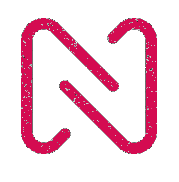
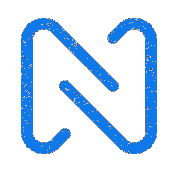
Contact Added

Changed region(s): [[0.1117, 0.0824, 0.6704, 0.8516], [0.3352, 0.0824, 0.8939, 0.8516]]

diff --git a/src/components/TopPage.jsx b/src/components/TopPage.jsx
@@ -1,38 +1,52 @@
-import { useEffect } from 'react';
+import { useEffect, useState } from 'react';
 import AOS from 'aos';
 import 'aos/dist/aos.css'
-import { RiLinkedinBoxFill, RiGithubFill  } from 'react-icons/ri';
+import ResumeEn from '../assets/cv-navarro-en.pdf';
+import ResumeEs from '../assets/cv-navarro-es.pdf';
+import { RiLinkedinBoxFill, RiGithubFill } from 'react-icons/ri';
 import { useTranslation } from 'react-i18next';
 
 function TopPage() {
-	
+
 	const [t] = useTranslation('global');
 
 	useEffect(() => {
-    AOS.init({duration:2000});
-  },[]);
+		AOS.init({ duration: 2000 });
+	}, []);
 
-	return (
-		<div className='top h-[80vh] grid justify-item-center place-content-center' data-aos='fade-up'>
-			<h2 className='text-6xl font-bold text-gray-800 dark:text-gray-300 my-2'> {t('top-page.hello-one')} </h2>
-			<h1 className='text-8xl font-bold text-[#F01F52] my-2'> Joaquin Navarro</h1>
-			<h2 className='text-6xl font-bold text-gray-800 dark:text-gray-300 my-2'> {t('top-page.hello-two')} </h2>
-			{/* Social Media */}
-			<div className='flex flex-row my-3 '>
-				<a href='https://www.linkedin.com/in/jose-joaquin-navarro/' className='text-5xl pr-1 text-gray-800 dark:text-gray-300'>
-					<RiLinkedinBoxFill />
-				</a>
-				<a href='#' className='text-5xl pl-1 text-gray-800 dark:text-gray-300'>
-					<RiGithubFill />
-				</a>
-			</div>
-			{/* Resume */}
-			<div className='flex flex-row justify-center my-3'>
-				<a href='./public/CV-Joaquin-Navarro.pdf' target="_blank" className='border-2 rounded-3xl py-2 px-4 mx-3'> {t('top-page.res-view')} </a>
-				<a href='./public/CV-Joaquin-Navarro.pdf' download="" className='border-2 rounded-3xl py-2 px-4 mx-3'> {t('top-page.res-download')} </a>
-			</div>
+
+	
+return (
+	<div className='top h-[80vh] grid justify-item-center place-content-center' data-aos='fade-up'>
+		<h2 className='text-6xl font-bold text-gray-800 dark:text-gray-300 my-2'> {t('top-page.hello-one')} </h2>
+		<h1 className='text-8xl font-bold text-[#1079ea] my-2'> Joaquin Navarro</h1>
+		<h2 className='text-6xl font-bold text-gray-800 dark:text-gray-300 my-2'> {t('top-page.hello-two')} </h2>
+		{/* Social Media */}
+		<div className='flex flex-row my-3 '>
+			<a href='https://www.linkedin.com/in/jose-joaquin-navarro/' className='text-5xl pr-1 text-gray-800 dark:text-gray-300'>
+				<RiLinkedinBoxFill />
+			</a>
+			<a href='#' className='text-5xl pl-1 text-gray-800 dark:text-gray-300'>
+				<RiGithubFill />
+			</a>
 		</div>
-	)
+		{/* Resume */}
+		<div className='flex flex-row justify-center my-3'>
+			<a
+				href={ResumeEn}
+				target='_blank'
+				className='border-2 font-semibold text-gray-800 border-gray-800 hover:text-[#1079ea] hover:border-[#1079ea] rounded-3xl py-2 px-4 mx-3 dark:text-gray-100 dark:border-gray-100'
+			> {t('top-page.res-view')}
+			</a>
+			<a
+				href={ResumeEn}
+				download=''
+				className='border-2 font-semibold text-gray-800 border-gray-800 hover:text-[#1079ea] hover:border-[#1079ea] rounded-3xl py-2 px-4 mx-3 dark:text-gray-100 dark:border-gray-100'
+			> {t('top-page.res-download')}
+			</a>
+		</div>
+	</div>
+)
 
 }
 

diff --git a/src/components/About.jsx b/src/components/About.jsx
@@ -1,6 +1,3 @@
-import { useEffect } from 'react';
-import AOS from 'aos';
-import 'aos/dist/aos.css'
 import { useTranslation } from 'react-i18next';
 import photo from '../assets/img/picture.png';
 
@@ -9,22 +6,18 @@ function About () {
 
   const [t] = useTranslation('global');
 
-  useEffect(() => {
-    AOS.init({duration:2000});
-  },[]);
-  
   return(
     <section id='about' className='h-[100vh] flex flex-col items-center'>
-      <h1 className='mt-40 mb-10 text-4xl text-center'>{t('about.title')}</h1>
-      <div className='flex flex-row  items-center place-content-center w-9/12' data-aos='fade-right'>
+      <h1 className='mt-40 mb-10 text-4xl text-center'>{t('about.title-one')}</h1>
+      <div className='flex flex-row items-center place-content-center w-9/12' data-aos='fade-right'>
         <div className='col-span-3 w-3/12'>
           <img className='rounded-2xl mx-auto' src={photo} width={250} height={250} />
         </div>
-        <div className='m-10 text-2xl w-6/12'>
-          <p>Hi! I’m Joaquin Navarro, a Front End Developer and Programming Teacher based in Buenos Aires, Argentina. After working as an Programming Teacher for almost 6 years, I’ve decided to take the leap to pursue a career in Front End Developer, I love to learn new technologies and flex my creativity to create amazing things.</p>
+        <div className='m-10 text-2xl w-6/12 text-justify'>
+          <p>{t('about.content')}</p>
         </div>
       </div>
-      <h3 className='text-3xl my-10 text-center'>Tech I Use</h3>
+      <h3 className='text-3xl my-10 text-center'>{t('about.title-two')}</h3>
       <div className='text-xl flex flex-row items-center place-content-center' data-aos='fade-up'>  
         <p className='border-2 rounded-3xl py-2 px-4 mx-2'>CSS</p>
         <p className='border-2 rounded-3xl py-2 px-4 mx-2'>JavaScript</p>

diff --git a/src/components/Portfolio.jsx b/src/components/Portfolio.jsx
@@ -1,22 +1,15 @@
-import { useEffect } from 'react';
-import AOS from 'aos';
-import 'aos/dist/aos.css'
 import { BsBoxArrowUpRight, BsGithub } from "react-icons/bs";
 import PageOne from '../assets/img/kodegames.png';
 import PageTwo from '../assets/img/tequepops.png';
 
 function Portfolio() {
 
-  useEffect(() => {
-    AOS.init({duration:2000});
-  },[]);
-
   return (
-    <section id='portfolio' className=''>
+    <section id='portfolio' className='my-20 py-2'>
       <h1 className='mt-40 mb-10 text-4xl text-center'> Portfolio </h1>
-      <div className='flex flex-col  items-center place-content-center'>
+      <div className='flex flex-col items-center place-content-center'>
 
-        <div className='flex rounded-xl p-10 shadow-xl w-8/12 my-5 dark:bg-[#13181f]' data-aos='fade-right'>
+        <div className='flex bg-white rounded-xl p-10 shadow-xl w-8/12 my-5 dark:bg-[#081825]' data-aos='fade-right'>
           <div className='portfolio-img w-7/12 h-[300px] overflow-hidden rounded-2xl'>
             <img src={PageOne} className='card-img' />
           </div>
@@ -41,7 +34,7 @@ function Portfolio() {
           </div>
         </div>
 
-        <div className='flex rounded-xl p-10 shadow-xl w-8/12 my-5 dark:bg-[#13181f]' data-aos='fade-left'>
+        <div className='flex bg-white rounded-xl p-10 shadow-xl w-8/12 my-5 dark:bg-[#081825]' data-aos='fade-left'>
           <div className='portfolio-info w-5/12 mx-10 grid items-center'>
             <h3 className='text-center text-2xl font-semibold'>Dashboard Restaurant</h3><br />
             <p className='text-lg text-center'>This is a mobile first app with mainly a dashboard, analitycs, orders information and tools that help to users to grow your business.</p><br />

diff --git a/src/components/Contact.jsx b/src/components/Contact.jsx
@@ -1,0 +1,43 @@
+import { FaRegPaperPlane } from "react-icons/fa";
+import { useTranslation } from 'react-i18next';
+
+function Contact () {
+
+  const [t] = useTranslation('global');
+  
+  return(
+    <section id='contact' className='h-[80vh] mt-40'>
+      <h1 className='mb-10 text-4xl text-center'>{t('contact.title')}</h1>
+      {/*Form */}
+        <form action='#' method='post' className='flex flex-col items-center justify-center' data-aos='fade-left' >
+          <input
+            className='bg-gray-100 border-b-black border-b-[1px] dark:bg-[#091a28] dark:border-b-gray-100 outline-none p-2 m-4 w-3/12'
+            type='text'
+            placeholder={t('contact.form-name')}
+            required='required'
+            name='name'
+          />
+          <input
+            className='bg-gray-100 border-b-black dark:bg-[#091a28] dark:border-b-gray-100 border-b-[1px] outline-none p-2 m-4 w-3/12'
+            type='email'
+            placeholder='Email'
+            required='required'
+            name='email'
+          />
+          <textarea
+            className='bg-gray-100 border-b-black dark:bg-[#091a28] dark:border-b-gray-100 border-b-[1px] p-2 outline-none resize-none w-3/12 my-6 h-[150px]'
+            placeholder={t('contact.form-msg')}
+            required='required'
+            name='message'
+          >
+          </textarea>
+          <button type='submit' className='border-2 border-black dark:border-white rounded-3xl py-2 px-4 mx-1 flex flex-row gap-2'> 
+            <FaRegPaperPlane className='mt-1'/> {t('contact.form-btn')}
+          </button>
+        </form>
+   
+    </section>
+  )
+}
+
+export default Contact;

diff --git a/src/App.jsx b/src/App.jsx
@@ -3,17 +3,19 @@ import TopPage from './components/TopPage';
 import About from './components/About';
 import Footer from './components/Footer';
 import Portfolio from './components/Portfolio';
+import Contact from './components/Contact';
 
 function App() {
 
   return (
-    <div className='bg-gray-100 dark:bg-gray-900 w-full min-h-screen dark:text-white dark:transition-all dark:duration-900'>
+    <div className='bg-gray-100 dark:bg-[#091a28] w-full min-h-screen dark:text-white dark:transition-all dark:duration-900'>
       <main className='container mx-auto'>
-        <Navigation />
-        <TopPage />
-        <About />
-        <Portfolio />
-        <Footer />
+        <Navigation/>
+        <TopPage/>
+        <About/>
+        <Portfolio/>
+        <Contact/>
+        <Footer/>
       </main>
     </div>
    

diff --git a/src/index.css b/src/index.css
@@ -7,7 +7,7 @@
     @apply relative tracking-[1px] 
   }
   .indicator::after {
-    @apply content-[''] bg-pink-600 h-[2px] w-[0%]  
+    @apply content-[''] bg-[#1079ea] h-[2px] w-[0%]  
     left-0 -bottom-[5px] rounded-xl absolute duration-300
   }
   .indicator:hover::after {
@@ -17,11 +17,11 @@
 
 body::-webkit-scrollbar {
   width: 10px;
-  background-color: rgb(3, 1, 19);
+  background-color:#091a28;
 }
 
 body::-webkit-scrollbar-thumb {
-  background-color: rgb(52, 52, 78);
+  background-color: rgb(49, 49, 90);
   border-radius: 5px;
 }
 

diff --git a/src/components/LangButton.jsx b/src/components/LangButton.jsx
@@ -22,7 +22,7 @@ function LangButton() {
 
 
   return (
-    <button onClick={handleLang} className='px-1 mx-1'>
+    <button onClick={handleLang} className='px-1 mx-1 font-semibold'>
       {
         lang === 'en' ?
           <button onClick={() => i18n.changeLanguage('en')}> EN </button>
